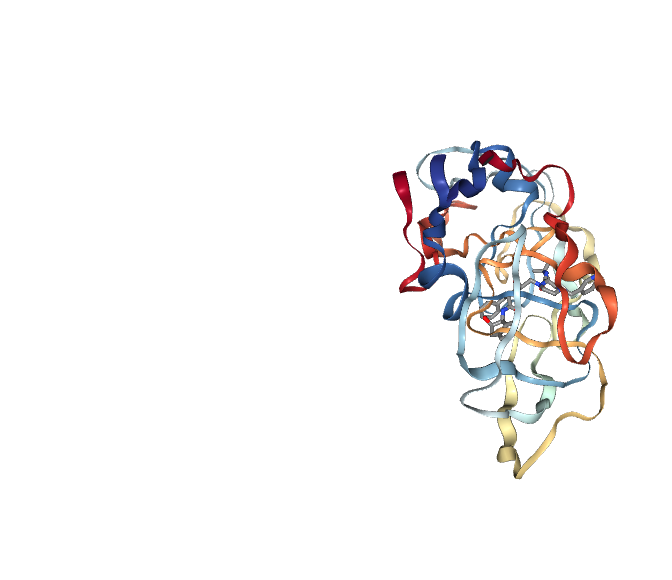
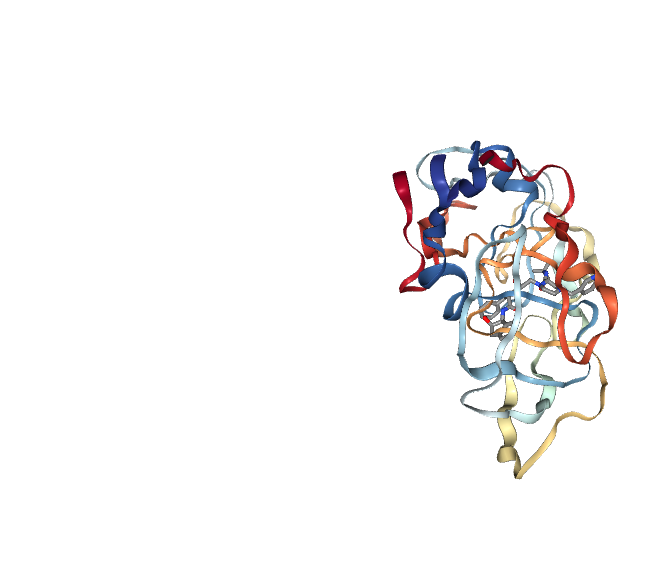
hi

diff --git a/class09/class09.md b/class09/class09.md
@@ -219,6 +219,7 @@ view.pdb(hiv) |>
     PhantomJS not found. You can install it with webshot::install_phantomjs(). If it is installed, please make sure the phantomjs executable can be found via the PATH variable.
 
     file:////private/var/folders/x1/9bbvsbhn3vs151vy2jr02xb40000gn/T/RtmpCsALNF/file31da2cc29320/widget31da1a4930d5.html screenshot completed
+    file:////private/var/folders/x1/9bbvsbhn3vs151vy2jr02xb40000gn/T/RtmpSAQvvE/file34d7443fb385/widget34d7322303c4.html screenshot completed
 
 ![](class09_files/figure-commonmark/unnamed-chunk-13-1.png)
 
@@ -235,6 +236,7 @@ view.pdb(hiv, highlight = sel,
 ```
 
     file:////private/var/folders/x1/9bbvsbhn3vs151vy2jr02xb40000gn/T/RtmpCsALNF/file31da4b290035/widget31da70ccbe1f.html screenshot completed
+    file:////private/var/folders/x1/9bbvsbhn3vs151vy2jr02xb40000gn/T/RtmpSAQvvE/file34d719f5bfd0/widget34d75503fe00.html screenshot completed
 
 ![](class09_files/figure-commonmark/unnamed-chunk-14-1.png)
 
@@ -281,8 +283,8 @@ adk
 m <- nma(adk)
 ```
 
-     Building Hessian...        Done in 0.013 seconds.
-     Diagonalizing Hessian...   Done in 0.276 seconds.
+     Building Hessian...        Done in 0.012 seconds.
+     Diagonalizing Hessian...   Done in 0.278 seconds.
 
 ``` r
 plot(m)
@@ -300,6 +302,6 @@ mktrj(m, file="ADK_nma.pdb")
 view.nma(m)
 ```
 
-    file:////private/var/folders/x1/9bbvsbhn3vs151vy2jr02xb40000gn/T/RtmpCsALNF/file31da3ed88e32/widget31da7b5f94d9.html screenshot completed
+    file:////private/var/folders/x1/9bbvsbhn3vs151vy2jr02xb40000gn/T/RtmpSAQvvE/file34d729a20c1d/widget34d74dc95945.html screenshot completed
 
 ![](class09_files/figure-commonmark/unnamed-chunk-18-1.png)
